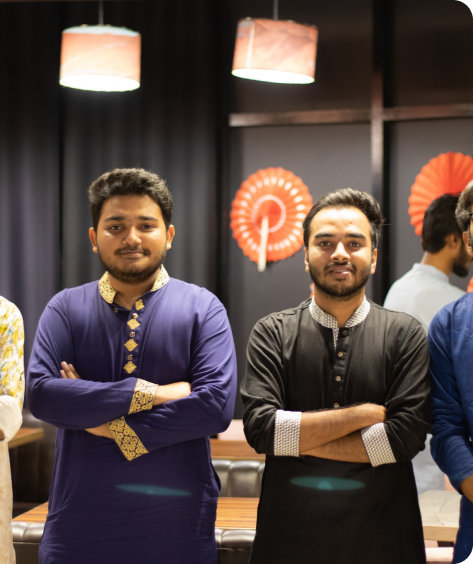
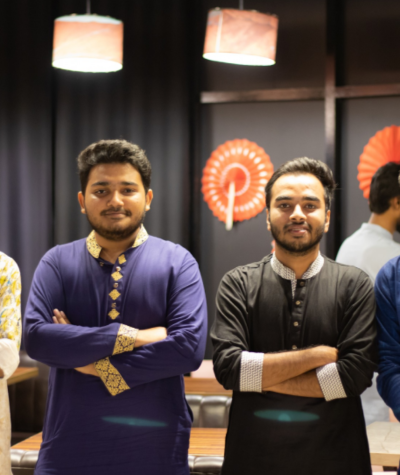
live site issue

diff --git a/src/Components/(home)/Hero.jsx b/src/Components/(home)/Hero.jsx
@@ -5,6 +5,9 @@ import 'swiper/css/navigation';
 
 import { Navigation } from 'swiper/modules';
 import Image from 'next/image';
+import slider1 from '../../../public/swiper1.png'
+import slider2 from '../../../public/swiper2.png'
+import slider3 from '../../../public/swiper3.png'
 
 const Hero = () => {
     const backgroundStyle = {
@@ -25,24 +28,26 @@ const Hero = () => {
             </div>
 
             {/* swier */}
-            <Swiper navigation={true} modules={[Navigation]} className="mySwiper">
-                <SwiperSlide>
-                    <div className='grid grid-cols-1 md:grid-cols-3 place-items-center'>
-                        <Image src={'https://i.pinimg.com/736x/3e/1e/a8/3e1ea8d07941f6031604cb55a5667615.jpg'} width={400} height={400} alt='slider'></Image>
-                        <Image src={'https://i.pinimg.com/736x/3e/1e/a8/3e1ea8d07941f6031604cb55a5667615.jpg'} width={400} height={400} alt='slider'></Image>
-                        <Image src={'https://i.pinimg.com/736x/3e/1e/a8/3e1ea8d07941f6031604cb55a5667615.jpg'} width={400} height={400} alt='slider'></Image>
-                    </div>
-                </SwiperSlide>
-                <SwiperSlide>
-                    <div className='grid grid-cols-1 md:grid-cols-3 place-items-center'>
-                        <Image src={'https://i.pinimg.com/736x/3e/1e/a8/3e1ea8d07941f6031604cb55a5667615.jpg'} width={400} height={400} alt='slider'></Image>
-                        <Image src={'https://i.pinimg.com/736x/3e/1e/a8/3e1ea8d07941f6031604cb55a5667615.jpg'} width={400} height={400} alt='slider'></Image>
-                        <Image src={'https://i.pinimg.com/736x/3e/1e/a8/3e1ea8d07941f6031604cb55a5667615.jpg'} width={400} height={400} alt='slider'></Image>
-                    </div>
-                </SwiperSlide>
+            <div className='max-w-[1500px] pt-28 mx-auto '>
+                <Swiper navigation={true} modules={[Navigation]} className="mySwiper">
+                    <SwiperSlide>
+                        <div className='grid grid-cols-1 md:grid-cols-3 place-items-center gap-8'>
+                            <Image className='rounded-xl' src={slider1} width={500} height={500} alt='slider'></Image>
+                            <Image className='rounded-xl' src={slider2} width={500} height={500} alt='slider'></Image>
+                            <Image className='rounded-xl' src={slider3} width={500} height={500} alt='slider'></Image>
+                        </div>
+                    </SwiperSlide>
+                    <SwiperSlide>
+                        <div className='grid grid-cols-1 md:grid-cols-3 place-items-center gap-8'>
+                            <Image className='rounded-xl' src={slider1} width={500} height={500} alt='slider'></Image>
+                            <Image className='rounded-xl' src={slider2} width={500} height={500} alt='slider'></Image>
+                            <Image className='rounded-xl' src={slider3} width={500} height={500} alt='slider'></Image>
+                        </div>
+                    </SwiperSlide>
 
 
-            </Swiper>
+                </Swiper>
+            </div>
         </div>
     );
 };

diff --git a/src/app/globals.css b/src/app/globals.css
@@ -28,13 +28,47 @@ p {
 }
   
 
-.swiper-button-prev, .swiper-button-next {
-margin: 0 140px;
-}
-.swiper-button-prev::after, .swiper-button-next::after {
-  color : white;
-  padding: 4px 30px; 
+.swiper-button-prev,
+.swiper-button-next {
+  margin: 0 140px;
 }
 
+.swiper-button-prev::after,
+.swiper-button-next::after {
+  color: white;
+  padding: 4px 30px;
+}
 
 
+
+
+
+
+
+
+
+
+
+
+
+
+
+
+
+
+
+
+
+
+
+
+
+
+
+/* custom responsiveness */
+@media screen and (max-width: 640px) {
+  .swiper-button-prev,
+  .swiper-button-next {
+    margin: 0 70px;
+  }
+}
